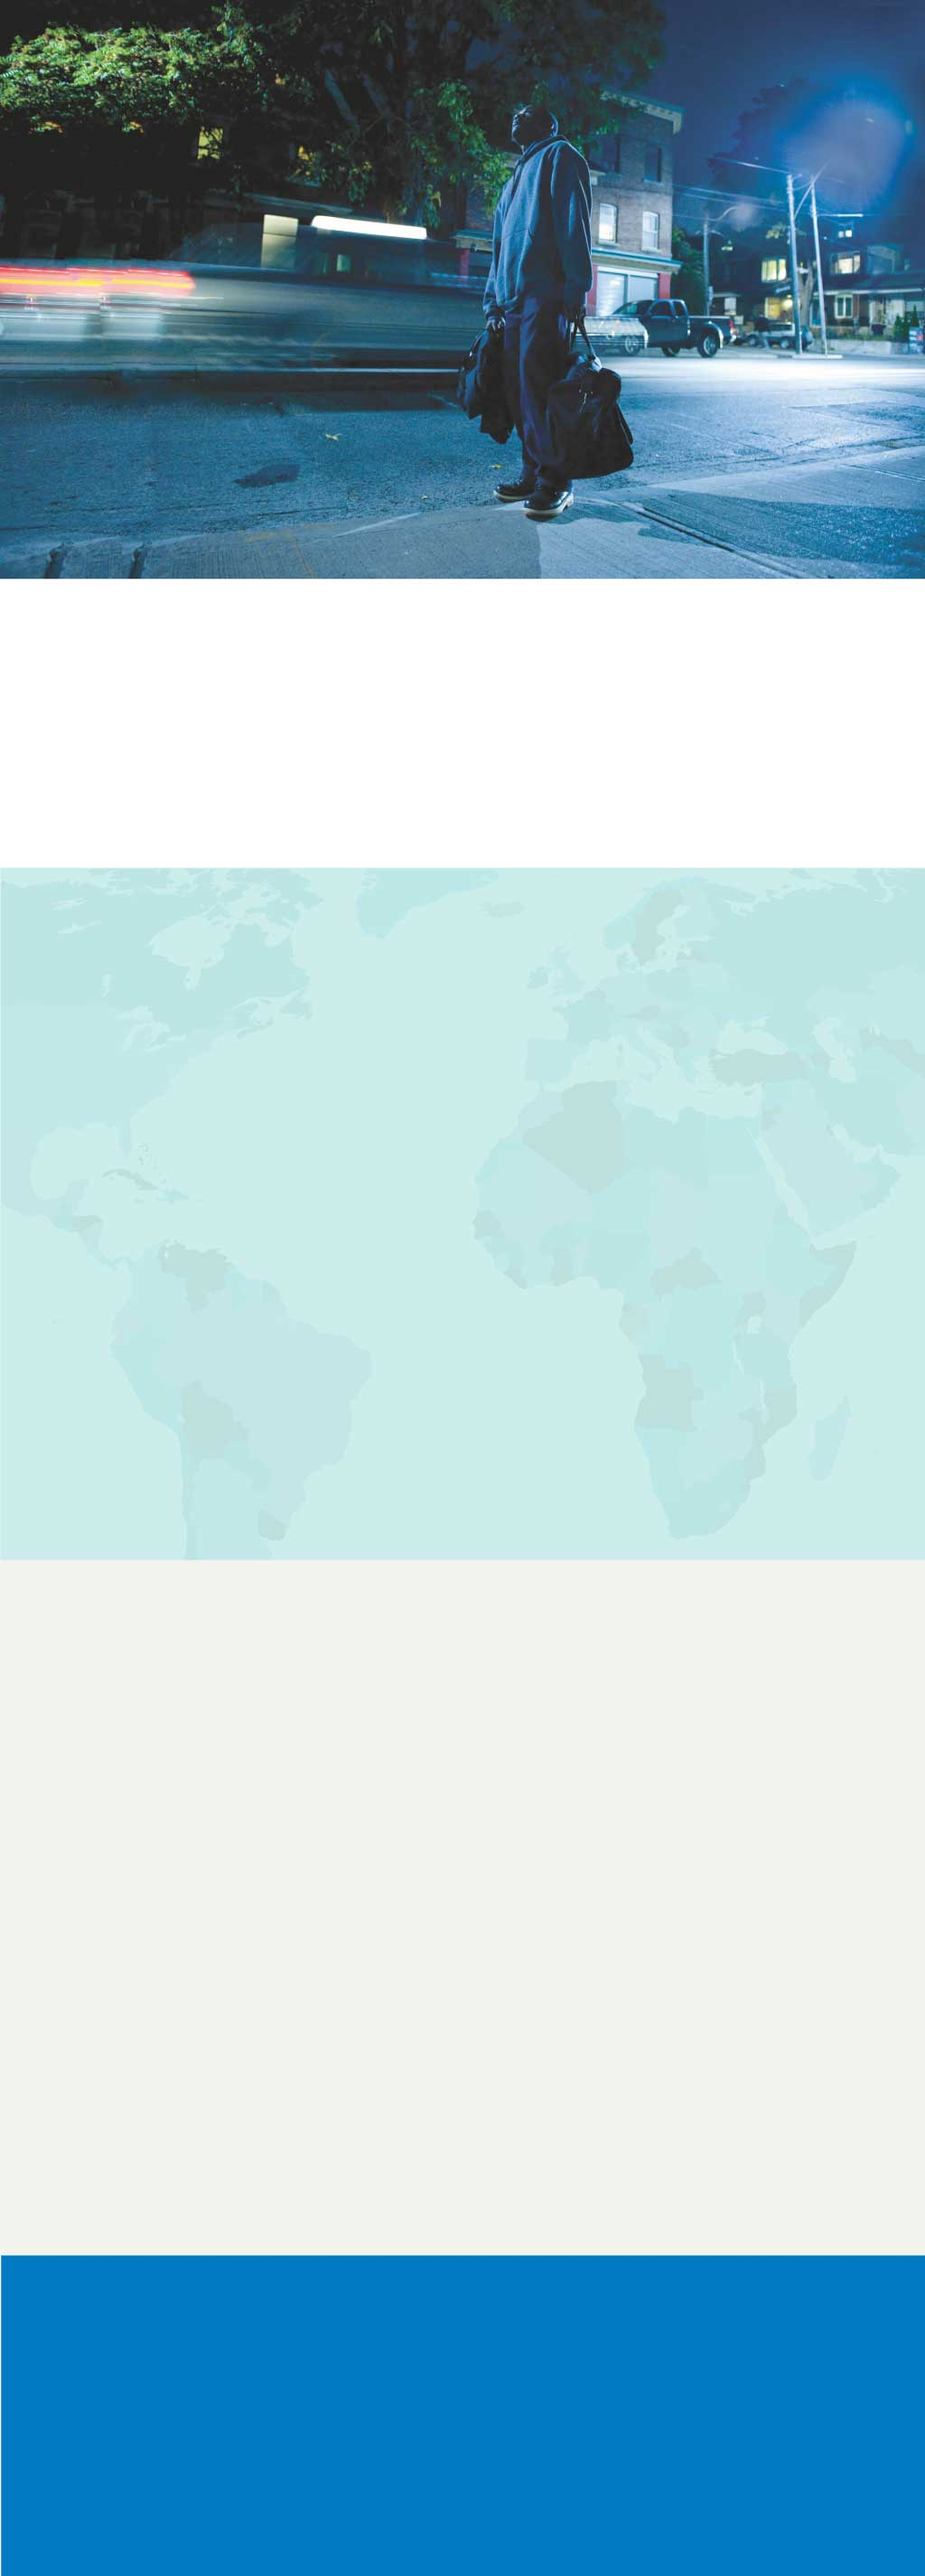
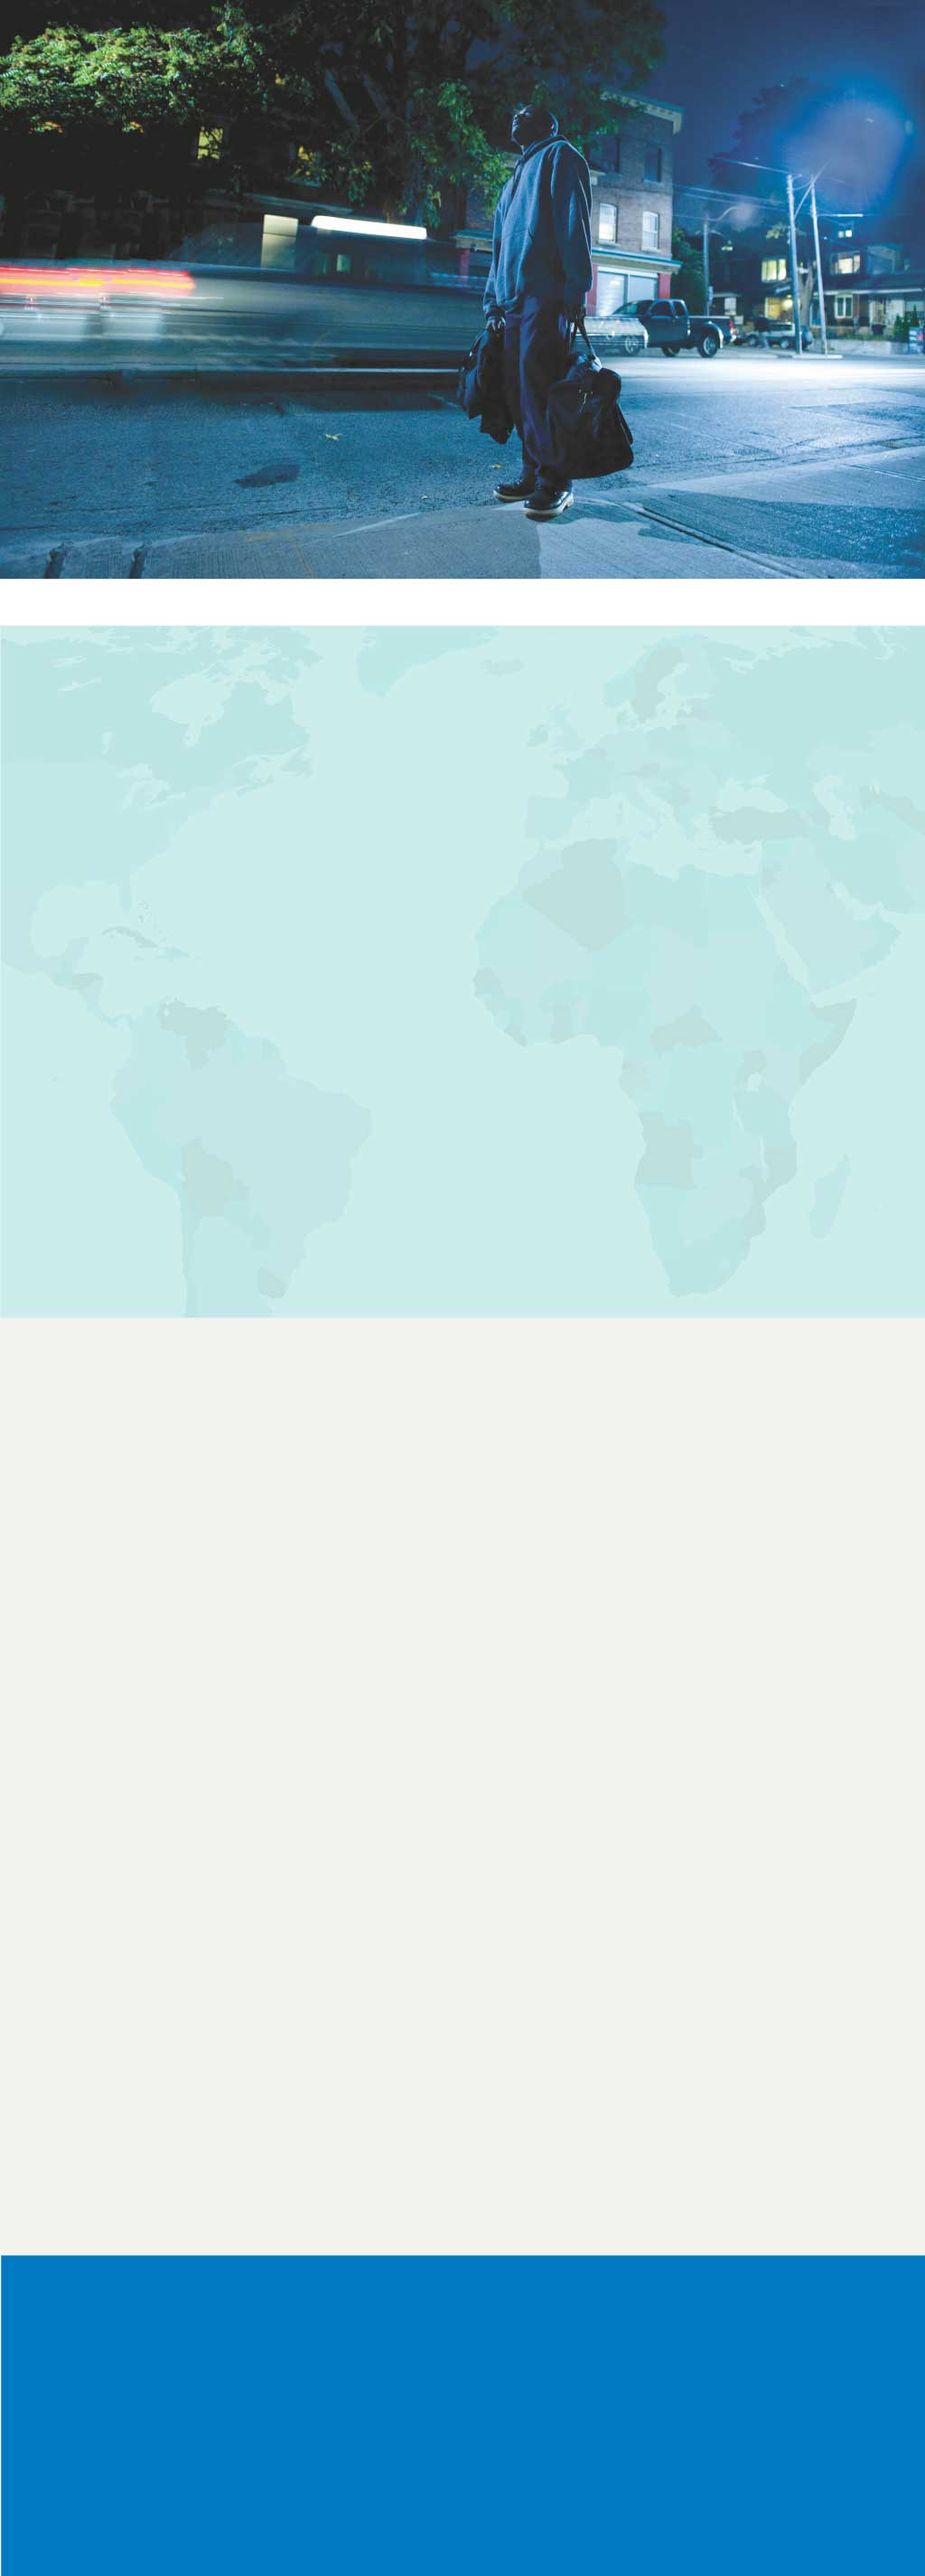
tweaks to homepage

Changed region(s): [[0.0, 0.4998, 1.0, 0.6248], [0.0, 0.2187, 1.0, 0.3436]]

diff --git a/site/ywd_trialsite_1564/library/css/designer.css b/site/ywd_trialsite_1564/library/css/designer.css
@@ -1700,7 +1700,7 @@
 	}
 
 .contenttable .navleft, .contenttable #contentleftcol {
-	width:350px;
+	width:500px;
 }
 
 

diff --git a/templates/main.php b/templates/main.php
@@ -125,30 +125,12 @@ $recent_posts = wp_get_recent_posts(array(
 </div>	
 </div>
 </div>
-<div class="leftcolbox" style='clear:both;' controller="1">
-	<div class="leftcolcblock ywdblock_stacked">
-		<div class="wp" style='z-index:4;' id='ywdautoformat0'><h5><span style="color: rgb(0, 95, 140);">FACTS ON&nbsp;REFUGEES</span></h5>
-
-																		<h6 style="margin-top: 0"><span style="color: rgb(0, 153, 153);">Canada</span></h6>
-																		<p><span style="color: rgb(0, 153, 153);">Refugees come to Canada in three different ways. Traditionally about 7,000 refugees per year are sponsored by the government. This year the Syrian influx is a special exception and could result in an additional 25,000 or more arrivals. Another 3,000 per year are sponsored by private groups, such as churches.&nbsp;Historically the largest group, which recently numbered more than 15,000 per year, come to Canada as refugee claimants. This is the group whom Matthew House serves</span></p>
-																		<p><span style="color: rgb(0, 153, 153);">There is no system in place to welcome or assist refugee claimants. They are simply numbered among the homeless, often without resources. Many are forced to look for help in inappropriate city shelters not equipped to meet their needs. Government policies are becoming harsher and there is no structure in place to directly look after their well-being. Despite having reached a safe country, they are at risk of being victimized and traumatized again. Matthew House serves this group of vulnerable refugee claimants.</span></p>
-																		<p><span style="color: rgb(0, 153, 153);">Learn more at the&nbsp;</span><a href="http://ccrweb.ca/"><span style="color: rgb(0, 95, 140);">Canadian Council for Refugees</span></a>&nbsp;<span style="color: rgb(0, 153, 153);">website.</span></p>
-
-
-			<h6><span style="color: rgb(0, 153, 153);">World</span></h6>
-			<p><span style="color: rgb(0, 153, 153);">The United Nations High Commission for Refugees puts the current number of refugees and forcibly displaced people around the world at&nbsp;51.2 million. No one becomes a refugee by choice&mdash;they are forced to flee to save their lives or preserve their freedom. They begin a long journey of danger and uncertainty on the refugee highway, seeking safety and security.</span></p>
-			<p><span style="color: rgb(0, 153, 153);">Learn more about the following International Organizations:</span><br />
-				<a href="http://www.unhcr.org/"><span style="color: rgb(0, 102, 153);">United Nations High Commissioner for Refugees</span></a><br />
-				<a href="http://www.ohchr.org/EN/Pages/WelcomePage.aspx"><span style="color: rgb(0, 102, 153);">United Nations High Commissioner for Human Rights</span></a><br />
-				<a href="http://www.iom.int/jahia/Jahia/lang/en/pid/1"><span style="color: rgb(0, 102, 153);">International Organization for Migration</span></a></p>
-				</div><div style="margin:0px;padding:0px;height:0px;clear:both;"></div>	
-			</div>
-		</div>
-		<div class="leftcolbox" style='clear:both;' controller="1">
-			<div class="leftcolcblock ywdblock_stacked">
+	<div class="leftcolbox" style='clear:both;' controller="1">
+		<div class="leftcolcblock ywdblock_stacked">
 				<div class="wp"></div><div style="margin:0px;padding:0px;height:0px;clear:both;"></div>	
-			</div>
 		</div>
+		<br><br><br>
+	</div>
 	</div>
 </td>
 <td class="contentmaincol">
@@ -189,7 +171,7 @@ $recent_posts = wp_get_recent_posts(array(
 				</div>
 				<div class="maincolbox" style='clear:both;' controller="1">
 					<div class="maincolcblock ywdblock_coords">
-						<div class="wp" style='top:800px;left:459px;position:absolute;' id='ywdautoformat0'>
+						<div class="wp" style='top:780px;left:559px;position:absolute;' id='ywdautoformat0'>
 							<p>
 							<!--
 							<a target="_blank" href="https://www.canadahelps.org/en/charities/matthew-house-refugee-reception-services-toronto/events/matthew-house-presents/">
